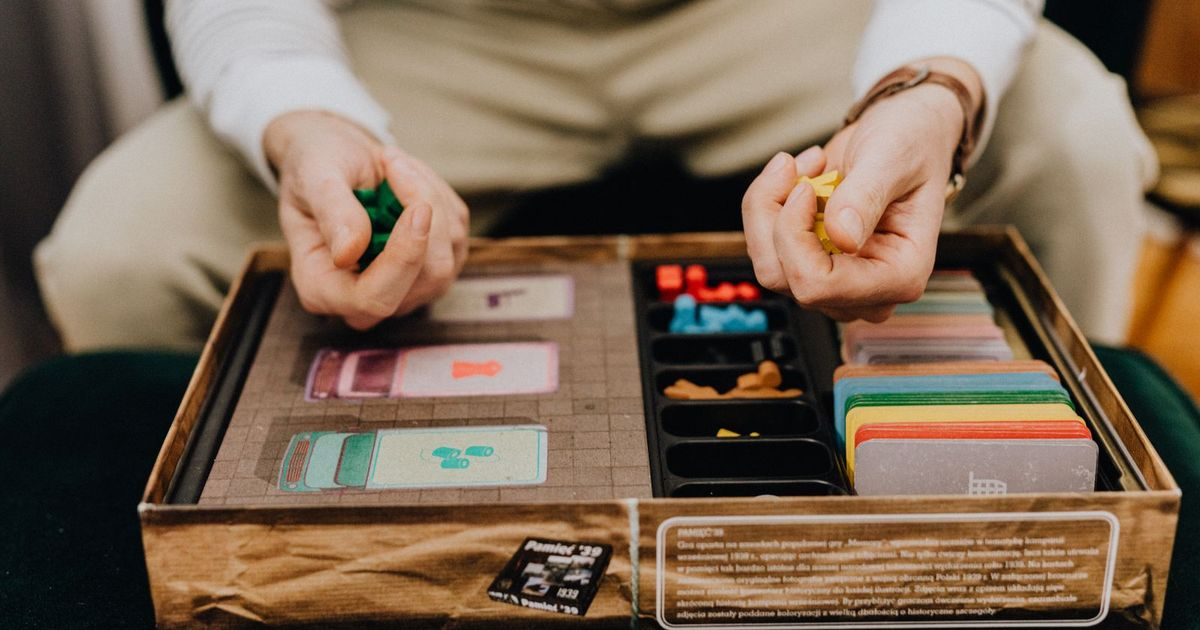
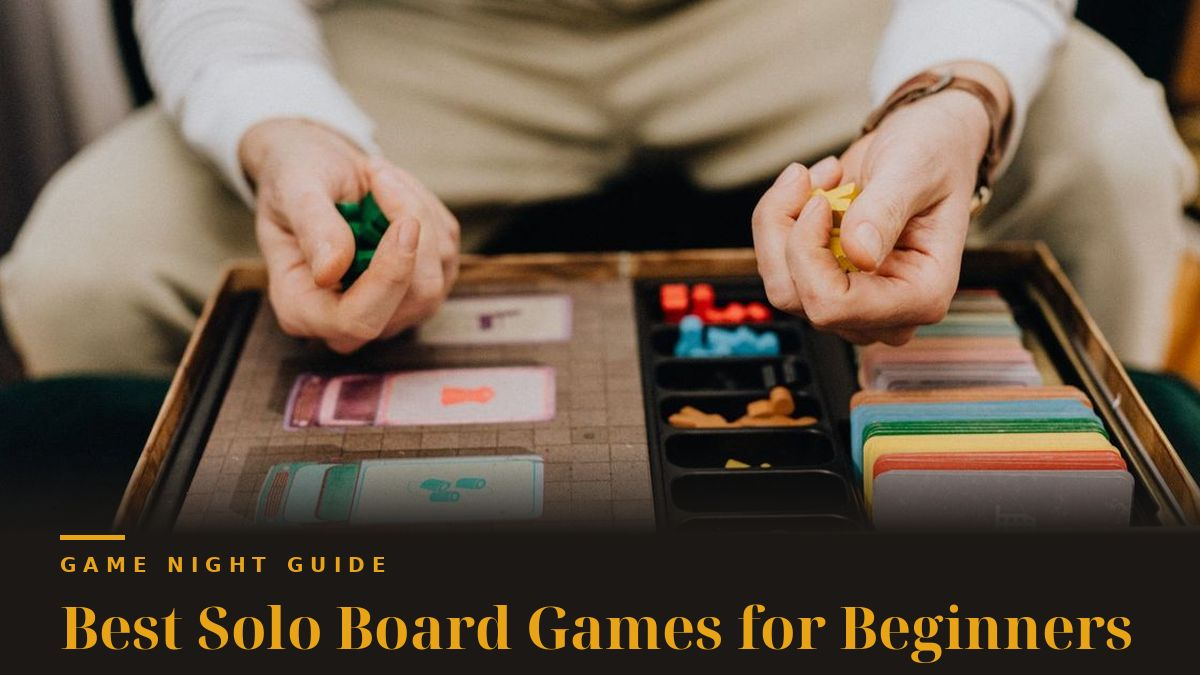
Thumbnail-style heroes from real photos, YouTube embeds in all 6 guides

diff --git a/src/assets/style.css b/src/assets/style.css
@@ -157,6 +157,9 @@ main { padding: 0 0 48px; }
 .art-hero { max-width: 920px; margin: 30px auto 0; padding: 0 20px; }
 .art-hero img { width: 100%; border-radius: var(--radius); aspect-ratio: 16/9; object-fit: cover; }
 .art-hero figcaption { font-size: 12.5px; color: var(--ink-3); margin-top: 10px; text-align: center; }
+.video { position: relative; aspect-ratio: 16/9; margin: 24px 0 0; border-radius: var(--radius); overflow: hidden; box-shadow: var(--shadow); background: var(--surface-2); }
+.video iframe { position: absolute; inset: 0; width: 100%; height: 100%; border: 0; }
+.video-cap { font-size: 13px; color: var(--ink-3); margin-top: 10px; text-align: center; }
 .art-body { max-width: 720px; margin: 0 auto; padding: 34px 20px 10px; font-family: "Newsreader", Georgia, serif; font-size: 19.5px; line-height: 1.72; color: var(--ink); }
 .art-body p { margin: 0 0 24px; }
 .art-body p:first-of-type::first-letter { font-size: 3.1em; float: left; line-height: 0.85; padding: 4px 10px 0 0; font-weight: 600; color: var(--accent); }

diff --git a/scripts/make_thumbnail_images.py b/scripts/make_thumbnail_images.py
@@ -1,0 +1,195 @@
+#!/usr/bin/env python3
+"""Game Night Guide: thumbnail-style hero and OG images.
+
+Builds NEW images from the games' original real photos, in the style of
+the owner's example thumbnails: a real photo with a dark band across the
+bottom and the guide title in gold serif text.
+
+Inputs: the real photos already in src/images/photos/ (Pexels photos and
+the two Wikimedia Commons gameplay photos). No AI images, no box art,
+no owner-uploaded files.
+
+Outputs (all JPG, quality 80 unless noted):
+  src/images/photos/<slug>.jpg        1200x675, 16:9 hero, photo + dark band + gold title
+  src/images/photos/<slug>-thumb.jpg  800x450, 16:9 card thumb, plain photo crop, no band
+  src/images/og-<slug>.jpg            1200x630, photo + dark band + gold title
+
+The versus hero is a split image: the Catan play photo on the left and
+the Ticket to Ride play photo on the right, with a thin gold divider.
+
+Fonts: Noto Serif Display Bold for the title, DejaVu Sans Bold for the
+small eyebrow. Both are installed system fonts.
+"""
+import os
+from PIL import Image, ImageDraw, ImageFont
+
+BASE = os.path.dirname(os.path.dirname(os.path.abspath(__file__)))
+PHOTOS = os.path.join(BASE, "src", "images", "photos")
+OUT = os.path.join(BASE, "src", "images")
+# Pristine plain photos, kept outside src/ so the site never publishes them
+# and so this script can be re-run without baking a title band twice.
+SOURCE = os.path.join(BASE, "source-photos")
+
+INK = (27, 24, 21)          # dark band, matches the site ink
+GOLD = (232, 163, 23)       # gold title text
+CREAM = (251, 249, 244)
+
+SERIF_BOLD = "/usr/share/fonts/truetype/noto/NotoSerifDisplay-Bold.ttf"
+SANS_BOLD = "/usr/share/fonts/truetype/dejavu/DejaVuSans-Bold.ttf"
+
+# slug: (source photo file in PHOTOS, title for the band, focus x, focus y)
+GUIDES = {
+    "beginners": ("beginners.jpg", "Best Board Games for Beginners", 0.5, 0.5),
+    "couples": ("couples.jpg", "Best Board Games for Couples", 0.5, 0.35),
+    "2-players-under-40": ("2-players-under-40.jpg",
+                            "Best Board Games for 2 Players Under $40", 0.5, 0.5),
+    "under-30": ("under-30.jpg", "Best Board Games Under $30", 0.5, 0.5),
+    "solo-beginners": ("solo-beginners.jpg",
+                       "Best Solo Board Games for Beginners", 0.5, 0.5),
+}
+
+
+def cover_crop(im, tw, th, fx=0.5, fy=0.5):
+    """Scale the image to cover tw x th, then crop with a focus point."""
+    w, h = im.size
+    scale = max(tw / w, th / h)
+    im = im.resize((round(w * scale), round(h * scale)), Image.LANCZOS)
+    w, h = im.size
+    x = round((w - tw) * fx)
+    y = round((h - th) * fy)
+    return im.crop((x, y, x + tw, y + th))
+
+
+def wrap_title(draw, text, font_path, start, max_w, max_lines=2):
+    """Return (lines, font): wrap to at most max_lines, shrinking until it fits."""
+    words = text.split()
+    for size in range(start, 27, -2):
+        f = ImageFont.truetype(font_path, size)
+        lines, cur = [], ""
+        for w in words:
+            trial = (cur + " " + w).strip()
+            if draw.textlength(trial, font=f) <= max_w:
+                cur = trial
+            else:
+                lines.append(cur)
+                cur = w
+        lines.append(cur)
+        if len(lines) <= max_lines:
+            return lines, f
+    return [text], ImageFont.truetype(font_path, 28)
+
+
+def measure_band(draw, title, max_w, margin=60):
+    """Wrap the title first, then size the band to fit every line.
+
+    One line at 58px needs a 140px band, two lines need 204px.
+    The band height is never guessed, so no line is ever cut off.
+    """
+    lines, font = wrap_title(draw, title, SERIF_BOLD, 58, max_w)
+    band_h = 52 + len(lines) * (font.size + 6) + 24
+    return lines, font, band_h
+
+
+def add_band(canvas, title, lines, font, band_h, margin=60):
+    """Dark band across the bottom with a gold serif title.
+
+    A soft gradient above the band lets the photo fade into it,
+    like the owner's example.
+    """
+    w, h = canvas.size
+    band_top = h - band_h
+    # gradient: transparent at band_top - 90, solid ink at band_top
+    overlay = Image.new("RGBA", (w, h), (0, 0, 0, 0))
+    od = ImageDraw.Draw(overlay)
+    fade = 90
+    for y in range(band_top - fade, band_top):
+        a = int(255 * (y - (band_top - fade)) / fade)
+        od.line([(0, y), (w, y)], fill=INK + (a,))
+    canvas.paste(Image.alpha_composite(canvas.convert("RGBA"), overlay).convert("RGB"), (0, 0))
+    draw = ImageDraw.Draw(canvas)
+    # solid band
+    draw.rectangle([(0, band_top), (w, h)], fill=INK)
+    # thin gold rule at the top of the band
+    draw.rectangle([(margin, band_top), (margin + 64, band_top + 4)], fill=GOLD)
+    # eyebrow
+    eyebrow = ImageFont.truetype(SANS_BOLD, 20)
+    draw.text((margin, band_top + 18), "G A M E   N I G H T   G U I D E",
+              font=eyebrow, fill=GOLD)
+    # title, one or two lines, gold serif
+    y = band_top + 52
+    for line in lines:
+        draw.text((margin, y), line, font=font, fill=GOLD)
+        y += font.size + 6
+    return canvas
+
+
+def make_photo_title(slug, src_file, title, fx, fy):
+    src = Image.open(os.path.join(SOURCE, src_file)).convert("RGB")
+    # hero, 1200x675, 16:9
+    hero = cover_crop(src, 1200, 675, fx, fy)
+    lines, font, band_h = measure_band(ImageDraw.Draw(hero), title, 1200 - 120)
+    add_band(hero, title, lines, font, band_h)
+    p = os.path.join(PHOTOS, f"{slug}.jpg")
+    hero.save(p, quality=80, optimize=True)
+    # card thumb, 800x450, plain photo crop, no band
+    thumb = cover_crop(src, 800, 450, fx, fy)
+    t = os.path.join(PHOTOS, f"{slug}-thumb.jpg")
+    thumb.save(t, quality=78, optimize=True)
+    # OG, 1200x630
+    og = cover_crop(src, 1200, 630, fx, fy)
+    lines, font, band_h = measure_band(ImageDraw.Draw(og), title, 1200 - 120)
+    add_band(og, title, lines, font, band_h)
+    o = os.path.join(OUT, f"og-{slug}.jpg")
+    og.save(o, quality=82, optimize=True)
+    print(f"{slug}: hero {os.path.getsize(p)//1024}KB, "
+          f"thumb {os.path.getsize(t)//1024}KB, og {os.path.getsize(o)//1024}KB")
+
+
+def make_versus():
+    """Split image: Catan play photo left, Ticket to Ride play photo right."""
+    catan = Image.open(os.path.join(PHOTOS, "catan-play.jpg")).convert("RGB")
+    ttr = Image.open(os.path.join(PHOTOS, "ticket-to-ride-play.jpg")).convert("RGB")
+    title = "Catan vs Ticket to Ride"
+
+    def split(w, h):
+        lines, font, band_h = measure_band(
+            ImageDraw.Draw(Image.new("RGB", (w, h))), title, w - 120)
+        photo_h = h - band_h
+        left = cover_crop(catan, w // 2, photo_h, 0.5, 0.5)
+        right = cover_crop(ttr, w // 2, photo_h, 0.5, 0.5)
+        canvas = Image.new("RGB", (w, h), INK)
+        canvas.paste(left, (0, 0))
+        canvas.paste(right, (w // 2, 0))
+        d = ImageDraw.Draw(canvas)
+        d.rectangle([(w // 2 - 2, 0), (w // 2 + 2, photo_h)], fill=GOLD)
+        add_band(canvas, title, lines, font, band_h)
+        return canvas
+
+    hero = split(1200, 675)
+    p = os.path.join(PHOTOS, "ticket-vs-catan.jpg")
+    hero.save(p, quality=80, optimize=True)
+    # thumb: split photo only, no band
+    left = cover_crop(catan, 400, 450, 0.5, 0.5)
+    right = cover_crop(ttr, 400, 450, 0.5, 0.5)
+    thumb = Image.new("RGB", (800, 450), INK)
+    thumb.paste(left, (0, 0))
+    thumb.paste(right, (400, 0))
+    d = ImageDraw.Draw(thumb)
+    d.rectangle([(398, 0), (402, 450)], fill=GOLD)
+    t = os.path.join(PHOTOS, "ticket-vs-catan-thumb.jpg")
+    thumb.save(t, quality=78, optimize=True)
+    og = split(1200, 630)
+    o = os.path.join(OUT, "og-ticket-vs-catan.jpg")
+    og.save(o, quality=82, optimize=True)
+    print(f"ticket-vs-catan: hero {os.path.getsize(p)//1024}KB, "
+          f"thumb {os.path.getsize(t)//1024}KB, og {os.path.getsize(o)//1024}KB")
+
+
+def main():
+    for slug, (src_file, title, fx, fy) in GUIDES.items():
+        make_photo_title(slug, src_file, title, fx, fy)
+    make_versus()
+
+
+if __name__ == "__main__":
+    main()

diff --git a/scripts/make_photos.py b/scripts/make_photos.py
@@ -47,10 +47,10 @@ GUIDES = {
     "finder": ("8111299", "Board Game Finder",
                "Four questions. One short list."),
 }
-# Note: "ticket-vs-catan" is not in GUIDES any more. Its hero, thumb and OG
-# now come from the owner-supplied split image, made by
-# scripts/make_ticket_vs_catan.py. Do not add it back here, or a rerun of
-# this script would overwrite those files with the old chess photo.
+# Note: "ticket-vs-catan" is not in GUIDES. Its hero, thumb and OG
+# are built from the two Wikimedia Commons gameplay photos by
+# scripts/make_thumbnail_images.py. Do not add it back here, or a rerun
+# of this script would overwrite those files with the old chess photo.
 
 
 def centre_crop(im, tw, th, fx=0.5, fy=0.5):

diff --git a/src/photo-credits.md b/src/photo-credits.md
@@ -17,7 +17,7 @@ permalink: /photo-credits/index.html
 - **Best board games for 2 players under $40:** friends playing a board game, seen from above. Photo by cottonbro studio, Pexels. https://www.pexels.com/photo/overhead-shot-of-a-group-of-people-playing-a-board-game-6218134/
 - **Best solo board games for beginners:** hands setting up a board game with colourful pieces. Photo by kaboompics, Pexels. https://www.pexels.com/photo/close-up-of-mans-hands-playing-a-game-6333907/
 - **Best board games under $30:** hands shuffling Uno cards. Photo by Edgar Colomba, Pexels. https://www.pexels.com/photo/person-shuffling-uno-cards-3986042/
-- **Ticket to Ride vs Catan:** split image, Catan board on the left and Ticket to Ride Europe board on the right, with the title "Catan vs Ticket to Ride" at the bottom. Image supplied by the site owner.
+- **Ticket to Ride vs Catan:** split image, built from the two Wikimedia Commons gameplay photos below. Catan board on the left, Ticket to Ride board on the right, with the title "Catan vs Ticket to Ride" in gold text on a dark band at the bottom. The title band is the same style as the other guide images on this page.
 - **Board Game Finder:** friends playing Jenga together. Photo by Pavel Danilyuk, Pexels. https://www.pexels.com/photo/friends-playing-at-the-table-8111299/
 
 ## Wikimedia Commons gameplay photos
@@ -29,7 +29,7 @@ Box cover art is copyrighted by the publishers, so it is not on this site. The t
 
 ## Social sharing images
 
-The OG images are the photos above with a deep green band and the guide title, in the same layout as our Canva design for the home page. Canva design: Game Night Guide OG social sharing image, https://canva.link/0zoz23l3t0ns5o1 (design DAHbn8g9fqM). The Ticket to Ride vs Catan OG is different: it is the owner-supplied split image fitted into 1200x630, so its own title stays visible.
+The OG images are the photos above with a dark band across the bottom and the guide title in gold serif text. The Ticket to Ride vs Catan OG is the same split image as its hero, fitted into 1200x630, so its own title stays visible.
 
 ## Licence
 

diff --git a/src/guides/best-board-games-under-30.md b/src/guides/best-board-games-under-30.md
@@ -15,6 +15,16 @@ One honest note first. We could not verify a live price for each game in this gu
 
 It tells you which games are small-box games usually sold in the budget range, how to check the real price, and what to avoid. Check the live price before you buy, every time.
 
+## Watch it played
+
+Codenames is one of the budget picks in this guide. This short video teaches it in a few minutes.
+
+<div class="video">
+  <iframe src="https://www.youtube-nocookie.com/embed/J8RWBooJivg" title="Codenames - How To Play" loading="lazy" allow="accelerometer; autoplay; clipboard-write; encrypted-media; gyroscope; picture-in-picture; web-share" referrerpolicy="strict-origin-when-cross-origin" allowfullscreen></iframe>
+</div>
+
+<p class="video-cap">Watch: "Codenames - How To Play" by Watch It Played on YouTube.</p>
+
 ## Why small-box games are usually cheaper
 
 Board game prices mostly follow the size of the box. A game with a big board, dozens of miniatures and hundreds of pieces costs more to make, and it costs more to ship. A game with a deck of cards and a small board costs less.

diff --git a/src/guides/ticket-to-ride-vs-catan.md b/src/guides/ticket-to-ride-vs-catan.md
@@ -28,6 +28,16 @@ They are not the same game, and they are not for the same people. This guide com
 
 <p class="photo-note">These photos show the games in play. The box art is copyrighted by the publishers, Days of Wonder for Ticket to Ride and Catan GmbH for Catan, so we do not show it here. Real box images will be added later through Amazon Associates, once that account exists.</p>
 
+## Watch it played
+
+Catan is the harder of the two games to teach, so start here if you buy Catan first.
+
+<div class="video">
+  <iframe src="https://www.youtube-nocookie.com/embed/oiQ6SgBzfqY" title="Catan - How To Play" loading="lazy" allow="accelerometer; autoplay; clipboard-write; encrypted-media; gyroscope; picture-in-picture; web-share" referrerpolicy="strict-origin-when-cross-origin" allowfullscreen></iframe>
+</div>
+
+<p class="video-cap">Watch: "Catan - How To Play" by Watch It Played on YouTube.</p>
+
 ## At a glance
 
 | | Ticket to Ride | Catan |

diff --git a/src/guides/best-board-games-for-couples.md b/src/guides/best-board-games-for-couples.md
@@ -15,6 +15,16 @@ The problem is the box. Most board games say "2 to 5 players", but a game built 
 
 This guide only lists games that are good with two. Some were made for exactly two players. The rest are games that real players keep coming back to with two, week after week.
 
+## Watch it played
+
+This video runs through the best games for two, including a few from this guide.
+
+<div class="video">
+  <iframe src="https://www.youtube-nocookie.com/embed/znDrntkVSaU" title="Best Board Games for Couples - Two players games" loading="lazy" allow="accelerometer; autoplay; clipboard-write; encrypted-media; gyroscope; picture-in-picture; web-share" referrerpolicy="strict-origin-when-cross-origin" allowfullscreen></iframe>
+</div>
+
+<p class="video-cap">Watch: "Best Board Games for Couples - Two players games" by Board Game Hangover on YouTube.</p>
+
 ## At a glance
 
 | Game | Players | Time | Ages | BGG rating |

diff --git a/src/guides/best-board-games-for-beginners.md b/src/guides/best-board-games-for-beginners.md
@@ -15,6 +15,16 @@ The best beginner games are Ticket to Ride, Codenames, Azul, Carcassonne and Sus
 
 One warning before you start. Do not buy a game that takes three hours and has a 40-page rulebook. That game can wait. Tonight is for learning, laughing, and finishing what you started.
 
+## Watch it played
+
+Prefer to watch first? This video runs through ten easy games you can learn fast.
+
+<div class="video">
+  <iframe src="https://www.youtube-nocookie.com/embed/XOlTkN0H5nE" title="10 EASY Board Games You Can't Put Down" loading="lazy" allow="accelerometer; autoplay; clipboard-write; encrypted-media; gyroscope; picture-in-picture; web-share" referrerpolicy="strict-origin-when-cross-origin" allowfullscreen></iframe>
+</div>
+
+<p class="video-cap">Watch: "10 EASY Board Games You Can't Put Down" by Banter and Boards on YouTube.</p>
+
 ## At a glance
 
 | Game | Players | Time | Ages | Best for |

diff --git a/src/guides/best-solo-board-games-for-beginners.md b/src/guides/best-solo-board-games-for-beginners.md
@@ -19,6 +19,16 @@ But solo games have a trap. The games that solo players talk about most, Spirit 
 
 They are terrible first solo games. This guide starts with the gentle ones, and tells you honestly when the big ones are worth it.
 
+## Watch it played
+
+This video covers ten gentle solo games for new solo players, including Cascadia.
+
+<div class="video">
+  <iframe src="https://www.youtube-nocookie.com/embed/RGZkJnhQnXc" title="The 10 Best Solo Board Games for Beginners" loading="lazy" allow="accelerometer; autoplay; clipboard-write; encrypted-media; gyroscope; picture-in-picture; web-share" referrerpolicy="strict-origin-when-cross-origin" allowfullscreen></iframe>
+</div>
+
+<p class="video-cap">Watch: "The 10 Best Solo Board Games for Beginners" by Specifically Solo on YouTube.</p>
+
 ## At a glance
 
 | Game | Players | Time | What it is | Price (verified) |

diff --git a/src/guides/best-board-games-for-2-players-under-40.md b/src/guides/best-board-games-for-2-players-under-40.md
@@ -19,6 +19,16 @@ One honest note: we could not verify a live price for each game in this guide on
 
 If a game is over $40 at the store you use, skip it and pick another one from this list.
 
+## Watch it played
+
+This countdown covers ten games made for two players.
+
+<div class="video">
+  <iframe src="https://www.youtube-nocookie.com/embed/iFXwfTmOtVE" title="Top 10 2 Player Board Games | 10 Best Board Games for 2 Players" loading="lazy" allow="accelerometer; autoplay; clipboard-write; encrypted-media; gyroscope; picture-in-picture; web-share" referrerpolicy="strict-origin-when-cross-origin" allowfullscreen></iframe>
+</div>
+
+<p class="video-cap">Watch: "Top 10 2 Player Board Games" by Foster the Meeple on YouTube.</p>
+
 ## At a glance
 
 | Game | Players | Time | Ages | BGG rating |
